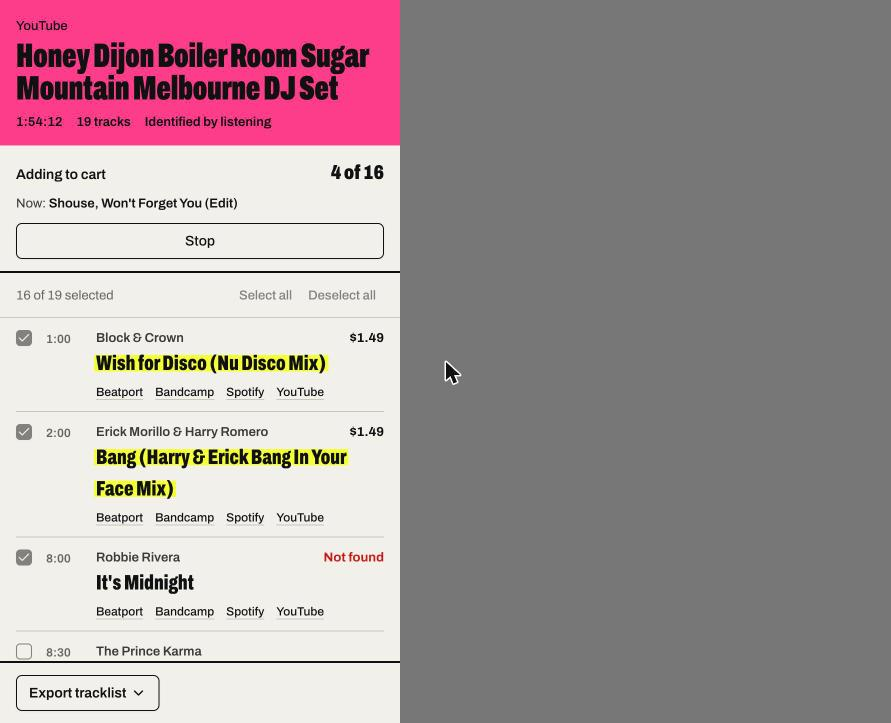
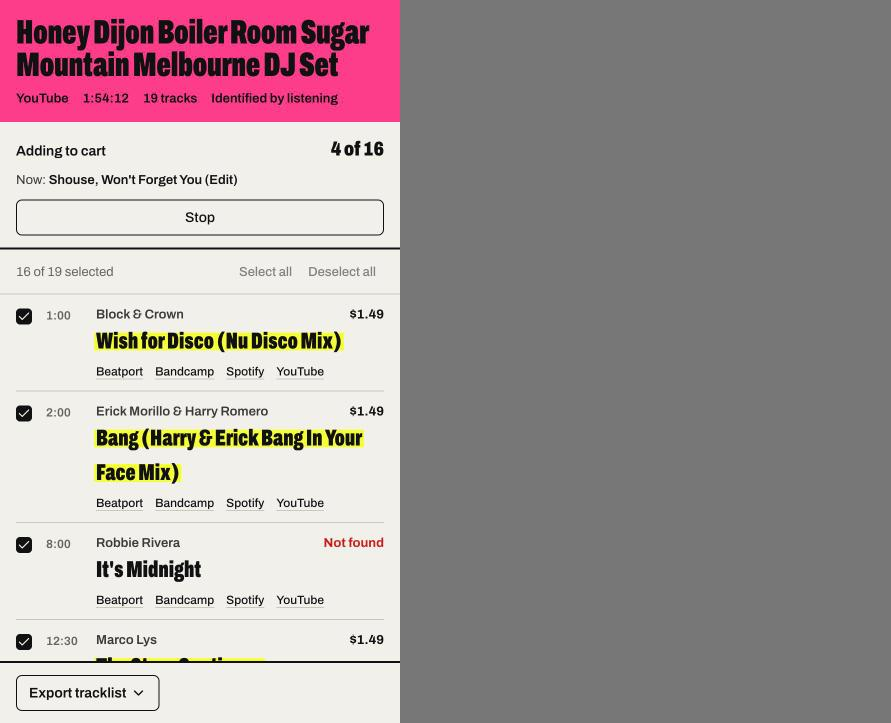
extension: apply the finish review to the side panel
Impeccable finish review returned fix with seven material items; all scored
resolved on recapture and the review closed with ship:
- no label above the mix title (site name joins the meta line)
- single-hit IDs billed under a "Plus N unconfirmed" line instead of a caption per row
- shadows removed from the shadcn button, checkbox and menu (menu gets a 2px ink border)
- locked checkboxes stay full ink while carting instead of fading to grey
- text selection uses toner grey, so yellow only ever means "in your cart"
- focus ring is ink on paper (pink was under 3:1) and pink on black stock
- Open cart in the done-state status line is recorded in the brief
Also widens the headliner/support size step and sets text-wrap: pretty.

diff --git a/extension/entrypoints/sidepanel/App.tsx b/extension/entrypoints/sidepanel/App.tsx
@@ -109,6 +109,7 @@ export default function App() {
   }
 
   const selected = job.rows.filter((r) => r.selected);
+  const unconfirmed = job.rows.filter((r) => r.track.hits < 2).length;
   const carted = job.rows.filter((r) => r.status === 'carted');
   const busy = job.phase === 'identifying' || job.phase === 'carting';
   const stores = STORE_PLANS.find((p) => p.id === plan)!.stores;
@@ -118,9 +119,9 @@ export default function App() {
   return (
     <main className="flex h-full flex-col">
       <header className="bg-pink px-4 pt-4 pb-3.5 text-on-pink">
-        <p className="text-[13px] font-medium">{source}</p>
-        <h1 className="mt-1 line-clamp-3 text-[34px] leading-[0.95] font-black tracking-[-0.01em] [font-stretch:62%]">{job.mix.title}</h1>
+        <h1 className="line-clamp-3 text-[34px] leading-[0.95] font-black tracking-[-0.01em] [font-stretch:62%]">{job.mix.title}</h1>
         <p className="mt-2 flex flex-wrap gap-x-3.5 text-[13px] font-semibold">
+          {source && <span>{source}</span>}
           {job.mix.duration ? <span>{clock(job.mix.duration)}</span> : null}
           {job.rows.length > 0 && <span>{job.rows.length} tracks</span>}
           <span>{job.tracklistFound ? 'From the description' : job.rows.length ? 'Identified by listening' : ''}</span>
@@ -205,10 +206,22 @@ export default function App() {
         </div>
       )}
 
-      <ol className="flex-1 overflow-y-auto px-4 pb-4">
-        {job.rows.map((row, i) => <TrackRow key={`${row.track.artist}|${row.track.title}`} row={row} index={i} locked={busy} />)}
-        {job.phase === 'identifying' && !job.rows.length && <li className="py-6 text-[14px] text-toner-2">Tracks appear here as they are recognized.</li>}
-      </ol>
+      <div className="flex-1 overflow-y-auto px-4 pb-4">
+        {/* Billed like a flyer: confirmed tracks are the lineup, single-hit IDs go on the "plus" line */}
+        <ol>
+          {job.rows.map((row, i) => row.track.hits >= 2 && <TrackRow key={`${row.track.artist}|${row.track.title}`} row={row} index={i} locked={busy} />)}
+        </ol>
+        {unconfirmed > 0 && (
+          <>
+            <h2 className="mt-5 border-b-2 border-ink pb-1.5 text-[19px] font-black [font-stretch:75%]">Plus {unconfirmed} unconfirmed</h2>
+            <p className="pt-1.5 text-[12px] text-toner-2">Each heard in one clip only. Often a sample or a blend, so they start unticked.</p>
+            <ol>
+              {job.rows.map((row, i) => row.track.hits < 2 && <TrackRow key={`${row.track.artist}|${row.track.title}`} row={row} index={i} locked={busy} />)}
+            </ol>
+          </>
+        )}
+        {job.phase === 'identifying' && !job.rows.length && <p className="py-6 text-[14px] text-toner-2">Tracks appear here as they are recognized.</p>}
+      </div>
 
       {job.rows.length > 0 && (
         <footer className="flex items-center gap-2 border-t-2 border-ink px-4 py-3">
@@ -249,17 +262,16 @@ function TrackRow({ row, index, locked }: { row: Row; index: number; locked: boo
   return (
     // Status shares the artist line so the track name, notes and links get the full width
     <li className="grid grid-cols-[22px_42px_minmax(0,1fr)] gap-x-2 border-b border-toner-3 py-2.5">
-      <Checkbox id={id} checked={row.selected} disabled={locked} onCheckedChange={() => send({ type: 'panel:toggle', index })} className="mt-0.5 border-ink data-[state=checked]:bg-ink" />
+      <Checkbox id={id} checked={row.selected} disabled={locked} onCheckedChange={() => send({ type: 'panel:toggle', index })} className="mt-1 border-ink data-[state=checked]:bg-ink" />
       <span className="pt-0.5 text-[12px] font-semibold text-toner-2">{clock(row.track.at)}</span>
       <div className="min-w-0">
         <div className="flex items-baseline justify-between gap-3">
           <label htmlFor={id} className="min-w-0 cursor-pointer truncate text-[13px] font-semibold text-toner-1">{row.track.artist}</label>
           {status && <span className={cn('shrink-0 text-[13px] font-bold', miss ? 'text-miss' : row.status === 'searching' ? 'text-toner-2' : '')}>{status}</span>}
         </div>
-        <label htmlFor={id} className={cn('block cursor-pointer leading-[1.08]', confirmed ? 'text-[21px] font-[850] [font-stretch:68%]' : 'text-[16px] font-bold [font-stretch:85%]')}>
+        <label htmlFor={id} className={cn('block cursor-pointer leading-[1.08]', confirmed ? 'text-[23px] font-black [font-stretch:64%]' : 'text-[15px] font-semibold [font-stretch:90%]')}>
           <span className={row.status === 'carted' ? 'highlighter' : undefined}>{row.track.title}</span>
         </label>
-        {!confirmed && <p className="mt-0.5 text-[12px] text-toner-2">Heard once, so unconfirmed</p>}
         {row.status === 'version-missing' && row.alternatives?.length ? (
           <p className="mt-0.5 text-[12px] text-toner-1">Available: {[...new Set(row.alternatives.map((a) => a.version || 'Original'))].join(', ')}</p>
         ) : null}

diff --git a/extension/components/ui/dropdown-menu.tsx b/extension/components/ui/dropdown-menu.tsx
@@ -41,7 +41,7 @@ function DropdownMenuContent({
         data-slot="dropdown-menu-content"
         sideOffset={sideOffset}
         className={cn(
-          "z-50 max-h-(--radix-dropdown-menu-content-available-height) min-w-[8rem] origin-(--radix-dropdown-menu-content-transform-origin) overflow-x-hidden overflow-y-auto rounded-md border bg-popover p-1 text-popover-foreground shadow-md data-[side=bottom]:slide-in-from-top-2 data-[side=left]:slide-in-from-right-2 data-[side=right]:slide-in-from-left-2 data-[side=top]:slide-in-from-bottom-2 data-[state=closed]:animate-out data-[state=closed]:fade-out-0 data-[state=closed]:zoom-out-95 data-[state=open]:animate-in data-[state=open]:fade-in-0 data-[state=open]:zoom-in-95",
+          "z-50 max-h-(--radix-dropdown-menu-content-available-height) min-w-[8rem] origin-(--radix-dropdown-menu-content-transform-origin) overflow-x-hidden overflow-y-auto rounded-md border-2 border-ink bg-popover p-1 text-popover-foreground data-[side=bottom]:slide-in-from-top-2 data-[side=left]:slide-in-from-right-2 data-[side=right]:slide-in-from-left-2 data-[side=top]:slide-in-from-bottom-2 data-[state=closed]:animate-out data-[state=closed]:fade-out-0 data-[state=closed]:zoom-out-95 data-[state=open]:animate-in data-[state=open]:fade-in-0 data-[state=open]:zoom-in-95",
           className
         )}
         {...props}
@@ -229,7 +229,7 @@ function DropdownMenuSubContent({
     <DropdownMenuPrimitive.SubContent
       data-slot="dropdown-menu-sub-content"
       className={cn(
-        "z-50 min-w-[8rem] origin-(--radix-dropdown-menu-content-transform-origin) overflow-hidden rounded-md border bg-popover p-1 text-popover-foreground shadow-lg data-[side=bottom]:slide-in-from-top-2 data-[side=left]:slide-in-from-right-2 data-[side=right]:slide-in-from-left-2 data-[side=top]:slide-in-from-bottom-2 data-[state=closed]:animate-out data-[state=closed]:fade-out-0 data-[state=closed]:zoom-out-95 data-[state=open]:animate-in data-[state=open]:fade-in-0 data-[state=open]:zoom-in-95",
+        "z-50 min-w-[8rem] origin-(--radix-dropdown-menu-content-transform-origin) overflow-hidden rounded-md border-2 border-ink bg-popover p-1 text-popover-foreground data-[side=bottom]:slide-in-from-top-2 data-[side=left]:slide-in-from-right-2 data-[side=right]:slide-in-from-left-2 data-[side=top]:slide-in-from-bottom-2 data-[state=closed]:animate-out data-[state=closed]:fade-out-0 data-[state=closed]:zoom-out-95 data-[state=open]:animate-in data-[state=open]:fade-in-0 data-[state=open]:zoom-in-95",
         className
       )}
       {...props}

diff --git a/extension/components/ui/button.tsx b/extension/components/ui/button.tsx
@@ -4,7 +4,7 @@ import { cn } from "@/lib/utils"
 import { Slot } from "radix-ui"
 
 const buttonVariants = cva(
-  "inline-flex shrink-0 items-center justify-center gap-2 rounded-md text-sm font-medium whitespace-nowrap transition-all outline-none focus-visible:border-ring focus-visible:ring-[3px] focus-visible:ring-ring/50 disabled:pointer-events-none disabled:opacity-50 aria-invalid:border-destructive aria-invalid:ring-destructive/20 [&_svg]:pointer-events-none [&_svg]:shrink-0 [&_svg:not([class*='size-'])]:size-4",
+  "inline-flex shrink-0 items-center justify-center gap-2 rounded-md text-sm font-medium whitespace-nowrap transition-all  disabled:pointer-events-none disabled:opacity-50 aria-invalid:border-destructive aria-invalid:ring-destructive/20 [&_svg]:pointer-events-none [&_svg]:shrink-0 [&_svg:not([class*='size-'])]:size-4",
   {
     variants: {
       variant: {
@@ -12,7 +12,7 @@ const buttonVariants = cva(
         destructive:
           "bg-destructive text-white hover:bg-destructive/90 focus-visible:ring-destructive/20",
         outline:
-          "border bg-background shadow-xs hover:bg-accent hover:text-accent-foreground",
+          "border bg-background hover:bg-accent hover:text-accent-foreground",
         secondary:
           "bg-secondary text-secondary-foreground hover:bg-secondary/80",
         ghost:

diff --git a/extension/entrypoints/sidepanel/style.css b/extension/entrypoints/sidepanel/style.css
@@ -16,6 +16,8 @@
   --highlight: #f4ff3a;
   --on-highlight: #111111;
   --miss: #c41f17;
+  /* pink on paper is under 3:1, so the focus ring is ink on paper and pink only on black stock */
+  --focus: var(--ink);
 
   --background: var(--paper);
   --foreground: var(--ink);
@@ -45,6 +47,7 @@
     --toner-2: #a29f96;
     --toner-3: #3b3a36;
     --miss: #ff6a5e;
+    --focus: var(--pink);
   }
 }
 
@@ -91,9 +94,11 @@
     -webkit-font-smoothing: antialiased;
     font-variant-numeric: tabular-nums;
   }
-  ::selection { background: var(--highlight); color: var(--on-highlight); }
-  :focus-visible { outline: 2px solid var(--pink); outline-offset: 2px; }
+  /* yellow means "in your cart" and nothing else, so selection stays toner grey */
+  ::selection { background: var(--toner-3); color: var(--ink); }
+  :focus-visible { outline: 2px solid var(--focus); outline-offset: 2px; }
   a { text-underline-offset: 3px; }
+  p { text-wrap: pretty; }
   * { scrollbar-width: thin; scrollbar-color: var(--toner-3) transparent; }
 }
 

diff --git a/extension/components/ui/checkbox.tsx b/extension/components/ui/checkbox.tsx
@@ -13,7 +13,7 @@ function Checkbox({
     <CheckboxPrimitive.Root
       data-slot="checkbox"
       className={cn(
-        "peer size-4 shrink-0 rounded-[4px] border border-input shadow-xs transition-shadow outline-none focus-visible:border-ring focus-visible:ring-[3px] focus-visible:ring-ring/50 disabled:cursor-not-allowed disabled:opacity-50 aria-invalid:border-destructive aria-invalid:ring-destructive/20 data-[state=checked]:border-primary data-[state=checked]:bg-primary data-[state=checked]:text-primary-foreground",
+        "peer size-4 shrink-0 rounded-[4px] border border-input  disabled:cursor-not-allowed  aria-invalid:border-destructive aria-invalid:ring-destructive/20 data-[state=checked]:border-primary data-[state=checked]:bg-primary data-[state=checked]:text-primary-foreground",
         className
       )}
       {...props}

diff --git a/.impeccable/surfaces/extension-entrypoints-sidepanel-app-tsx.md b/.impeccable/surfaces/extension-entrypoints-sidepanel-app-tsx.md
@@ -17,7 +17,7 @@ OWN-WORLD: Photocopy toner black on off-white paper (black flyer stock in dark m
 
 STORY: The DJ sees at a glance what played, how sure each ID is, and what is already in the cart; they act once (send to cart) and leave with links and a file.
 
-FIRST VIEWPORT: Pink header band with source and the mix title in heavy condensed type, then one status line with the single primary action, then the lineup list: time, artist, track name at a size set by confidence, status at right. Footer holds Open cart links and Export.
+FIRST VIEWPORT: Pink header band with the mix title in heavy condensed type and a meta line (site, duration, track count, tracklist source), then one status line with the single primary action, then the lineup: confirmed tracks billed large, then a "Plus N unconfirmed" line with the single-hit IDs set small. Each row: tick, time, artist with status at right, track name, store links. Footer holds Export and Start over. In the done state the primary action is opening the cart, so Open cart lives in the status line, not the footer (decided at finish review: it is the one thing left to do).
 
 FORM: Photocopied club flyer, position 4 of 7 on the grounded list. Signature move: confidence sets type size (lineup billing), and carting draws a highlighter swipe across the track name. seed:3eca86c2ac10a73f
 
